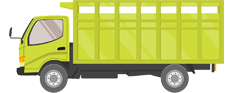
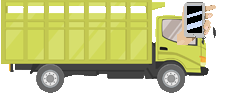
adding mobile car

diff --git a/index.html b/index.html
@@ -1,46 +1,57 @@
 <!DOCTYPE html>
 <html>
-        <head>
-            <link rel="stylesheet" href="style/stop.css">
-             </head>
-        <script src="http://code.jquery.com/jquery-1.11.2.min.js"></script>
-	<body>
+
+<head>
+    <link rel="stylesheet" href="style/stop.css">
+</head>
+<script src="http://code.jquery.com/jquery-1.11.2.min.js"></script>
+
+<body>
     <div class="country-wrap">
-		<div id="score_div">
-        Points: <span id="score">0</span>
-    </div>
-<!--     <div id="GameStopped"><button id="StartBtn" class="btnStyle">Start Game</button>
+        <div id="score_div">
+            Points: <span id="score">0</span>
+        </div>
+        <!--     <div id="GameStopped"><button id="StartBtn" class="btnStyle">Start Game</button>
          <div class="Status">Click Start to begin</div></div> -->
-		 
-		 
-		 
-		 <!-- Some Declartion  -->
+
+
+
+        <!-- Some Declartion  -->
         <div class="sun"></div>
         <div class="grass"></div>
         <div class="street">
-		<!--Blue Truck-->
-	<div class="blue_truck">
-	<div class="blue_truck_rim_one"></div>
-	<div class="blue_truck_rim_two"></div>
-	</div>
-        <div class="street-stripe"></div>
-		
-		<!--Suzuki Truck-->
-  <div class="suzuki">
-    <div class="suzuki_rim_one"></div>
-    <div class="suzuki_rim_two"></div>
-	</div>
-        <div class="hill">
+
+            <!--Blue Truck-->
+             <div class="blue_truck">
+                <div class="blue_truck_rim_one"></div>
+                <div class="blue_truck_rim_two"></div>
+            </div> 
+            <!--Green Truck-->
+            <div class="green_truck">
+                <div class="green_truck_rim_one"></div>
+                <div class="green_truck_rim_two"></div>
+            </div>
+
+
+            <div class="street-stripe"></div>
+
+            <!--Suzuki Truck-->
+            <div class="suzuki">
+                <div class="suzuki_rim_one"></div>
+                <div class="suzuki_rim_two"></div>
+            </div>
+            <div class="hill">
+            </div>
         </div>
-    </div>
-	
-	
-    <div id="cursor"></div>
-    <script src="scripts/MouseHandler.js"></script>
-	
-	 <div class="outer">
-	 
-    <img src="images/finalstop.png" width="150" height="300" > </div>  
-	<script src="scripts/game.js"></script>
+
+
+        <div id="cursor"></div>
+        <script src="scripts/MouseHandler.js"></script>
+
+        <div class="outer">
+
+            <img src="images/finalstop.png" width="150" height="300"> </div>
+        <script src="scripts/game.js"></script>
 </body>
+
 </html>

diff --git a/style/stop.css b/style/stop.css
@@ -34,7 +34,7 @@ filter: progid:DXImageTransform.Microsoft.gradient( startColorstr='#d1e4ea', end
 .country-wrap {
 	position:relative;
 	width:100%;
-	height:75%;
+	height:80%;
 	overflow:hidden;
 }
 .push-bottom {
@@ -335,7 +335,7 @@ filter: progid:DXImageTransform.Microsoft.gradient( startColorstr='#d1e4ea', end
 	height: 93px;
 	width: 235px;
 	position: relative;
-	top: -85%;
+	top: -80%;
 	animation-name: blue_truck;
 	animation-duration: 15s;
 	animation-timing-function: linear;
@@ -382,13 +382,12 @@ filter: progid:DXImageTransform.Microsoft.gradient( startColorstr='#d1e4ea', end
 }
 }
 
-
 /*Suzuki*/
 .suzuki {
 	background: rgba(0, 0, 0, 0) url(../images/suzuki.png) no-repeat scroll center center;
 	height: 62px;
 	position: relative;
-	top: -108%;
+	top: -110%;
 	width: 120px;
 	-webkit-animation-name: suzuki; /* Chrome, Safari, Opera */
 	-webkit-animation-duration: 18s; /* Chrome, Safari, Opera */
@@ -452,6 +451,11 @@ left:100%;
  -webkit-transform: rotate(360deg); /* Chrome, Safari, Opera */
  transform: rotate(360deg);
 }
-}
+} 
+ 
+	
+ 
+
+	
 
 
